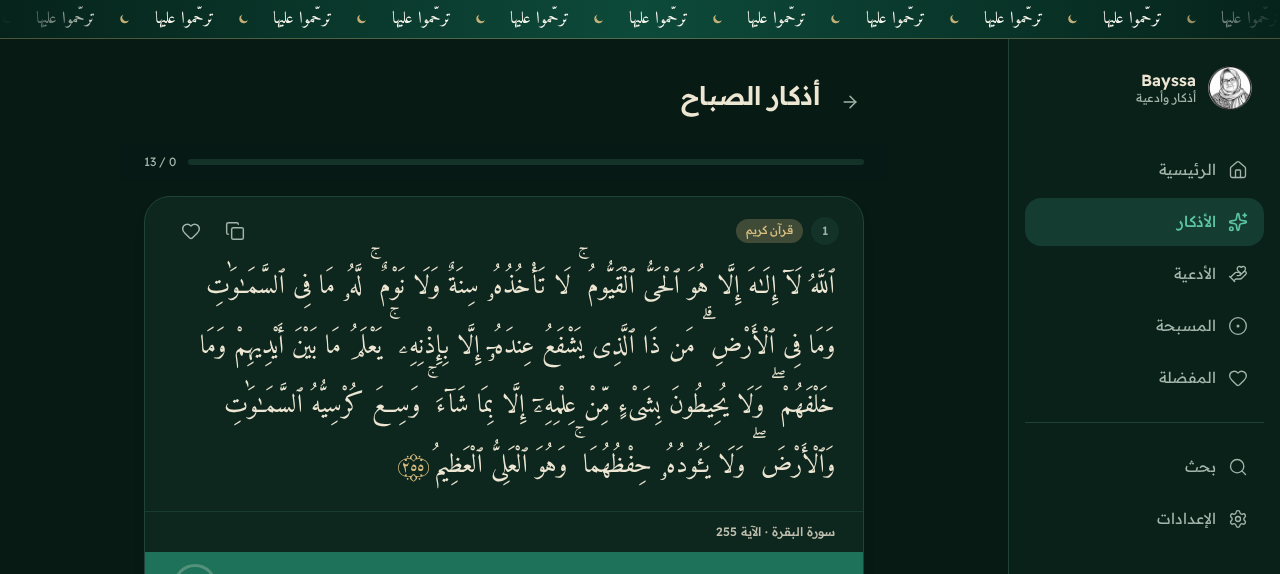
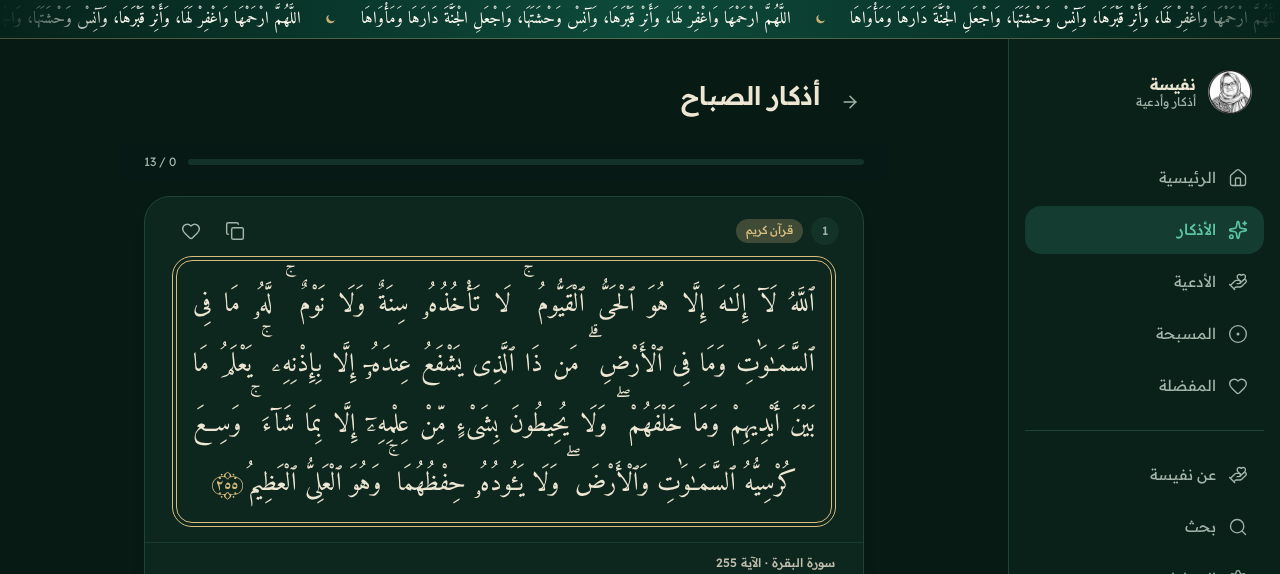
feat: rename the app to Nafissa and show its name in Arabic
- The name shown in the app, the page title, the installed-app name
  and the link previews is the Arabic name the owner gave. English
  documents use "Nafissa".
- The app name on the home screen's header links to the home screen,
  as it does in the sidebar.
- The backup format is now nafissa-backup. The app has no released
  users, so no existing file is affected.
- The link preview image, the social image and the screenshots are
  regenerated.

The address path /bayssa/ and the repository name are unchanged here.

diff --git a/tests/e2e/backup.spec.ts b/tests/e2e/backup.spec.ts
@@ -18,8 +18,8 @@ const PREFS = { theme: 'light', numerals: 'arab', textScaleIndex: 1, hijriOffset
 const EMPTY: FileData = { favorites: [], tasbih: { activeId: '', counters: {}, lifetimeTotal: 0 }, progress: { day: '', counts: {} }, prefs: PREFS }
 
 function backupFile(data: Partial<FileData>, overrides: Record<string, unknown> = {}): { name: string; mimeType: string; buffer: Buffer } {
-  const file = { format: 'bayssa-backup', version: 1, exportedAt: '2026-11-22T10:00:00.000Z', appVersion: '0.1.0', data: { ...EMPTY, ...data }, ...overrides }
-  return { name: 'bayssa-backup.json', mimeType: 'application/json', buffer: Buffer.from(JSON.stringify(file)) }
+  const file = { format: 'nafissa-backup', version: 1, exportedAt: '2026-11-22T10:00:00.000Z', appVersion: '0.1.0', data: { ...EMPTY, ...data }, ...overrides }
+  return { name: 'nafissa-backup.json', mimeType: 'application/json', buffer: Buffer.from(JSON.stringify(file)) }
 }
 
 async function chooseFile(page: Page, file: { name: string; mimeType: string; buffer: Buffer }): Promise<void> {
@@ -52,9 +52,9 @@ test.describe('export', () => {
     const downloading = page.waitForEvent('download')
     await page.getByRole('button', { name: 'تصدير ملف' }).click()
     const download = await downloading
-    expect(download.suggestedFilename()).toMatch(/^bayssa-backup-\d{4}-\d{2}-\d{2}\.json$/)
+    expect(download.suggestedFilename()).toMatch(/^nafissa-backup-\d{4}-\d{2}-\d{2}\.json$/)
     const file = JSON.parse(await readFile(await download.path(), 'utf8')) as { format: string; version: number; exportedAt: string; data: FileData }
-    expect(file.format).toBe('bayssa-backup')
+    expect(file.format).toBe('nafissa-backup')
     expect(file.version).toBe(1)
     expect(Number.isNaN(Date.parse(file.exportedAt))).toBe(false)
     expect(file.data.favorites).toHaveLength(1)
@@ -98,7 +98,7 @@ test.describe('moving data between two separate storage areas', () => {
     const page = await second.newPage()
     await page.goto('./#/settings')
     expect((await savedState(page)).favorites).toBe(0)
-    await chooseFile(page, { name: 'bayssa-backup.json', mimeType: 'application/json', buffer: exported })
+    await chooseFile(page, { name: 'nafissa-backup.json', mimeType: 'application/json', buffer: exported })
 
     const dialog = page.getByRole('dialog')
     await expect(dialog.getByRole('heading', { name: 'معاينة قبل الاستيراد' })).toBeVisible()
@@ -130,7 +130,7 @@ test.describe('moving data between two separate storage areas', () => {
     await page.getByRole('button', { name: 'نسخ البيانات' }).click()
     await expect(page.getByRole('status').filter({ hasText: 'نُسخت البيانات' })).toBeVisible()
     const copied = await page.evaluate(() => window.__copied[0] ?? '')
-    expect(JSON.parse(copied)).toMatchObject({ format: 'bayssa-backup', version: 1 })
+    expect(JSON.parse(copied)).toMatchObject({ format: 'nafissa-backup', version: 1 })
 
     await page.evaluate(() => localStorage.clear())
     await page.reload()
@@ -144,14 +144,14 @@ test.describe('moving data between two separate storage areas', () => {
 
   test('says which environment is in use and how to move data', async ({ page }) => {
     await page.goto('./#/settings')
-    await expect(page.getByText('أنت تستعمل Bayssa الآن في المتصفح')).toBeVisible()
+    await expect(page.getByText('أنت تستعمل نفيسة الآن في المتصفح')).toBeVisible()
     await page.emulateMedia({ media: 'screen' })
     await page.addInitScript(() => {
       const original = window.matchMedia.bind(window)
       window.matchMedia = (query: string) => (query.includes('display-mode: standalone') ? { ...original(query), matches: true } as MediaQueryList : original(query))
     })
     await page.reload()
-    await expect(page.getByText('أنت تستعمل Bayssa الآن تطبيقاً مثبّتاً')).toBeVisible()
+    await expect(page.getByText('أنت تستعمل نفيسة الآن تطبيقاً مثبّتاً')).toBeVisible()
   })
 })
 
@@ -159,7 +159,7 @@ test.describe('files that must be refused', () => {
   const CASES: { name: string; file: () => { name: string; mimeType: string; buffer: Buffer }; message: string }[] = [
     { name: 'text that is not JSON', file: () => ({ name: 'notes.json', mimeType: 'application/json', buffer: Buffer.from('this is not a backup') }), message: 'تعذّرت قراءة الملف' },
     { name: 'an empty file', file: () => ({ name: 'empty.json', mimeType: 'application/json', buffer: Buffer.from('') }), message: 'تعذّرت قراءة الملف' },
-    { name: 'JSON from another program', file: () => ({ name: 'other.json', mimeType: 'application/json', buffer: Buffer.from(JSON.stringify({ favorites: ['a'] })) }), message: 'ليس نسخة من بيانات Bayssa' },
+    { name: 'JSON from another program', file: () => ({ name: 'other.json', mimeType: 'application/json', buffer: Buffer.from(JSON.stringify({ favorites: ['a'] })) }), message: 'ليس نسخة من بيانات نفيسة' },
     { name: 'a newer format version', file: () => backupFile({}, { version: 2 }), message: 'بإصدار لا يدعمه هذا التطبيق' },
     { name: 'a negative counter', file: () => backupFile({ tasbih: { activeId: 'a', counters: { a: { count: -5, target: 33, completedRounds: 0 } }, lifetimeTotal: 0 } }), message: 'بيانات غير سليمة' },
     { name: 'a favorite without an id', file: () => backupFile({ favorites: [{ id: '', addedAt: 1 }] }), message: 'بيانات غير سليمة' },
@@ -261,5 +261,5 @@ test('export and import work with no network', async ({ page, context }) => {
   await expect(page.getByRole('status').filter({ hasText: 'تم الاستيراد' })).toBeVisible()
   const downloading = page.waitForEvent('download')
   await page.getByRole('button', { name: 'تصدير ملف' }).click()
-  expect((await downloading).suggestedFilename()).toMatch(/^bayssa-backup-/)
+  expect((await downloading).suggestedFilename()).toMatch(/^nafissa-backup-/)
 })

diff --git a/src/i18n/ar.ts b/src/i18n/ar.ts
@@ -1,7 +1,7 @@
 // All interface copy lives here so another language can be added later by
 // supplying an object of the same shape. Supplication text is content, not copy.
 export const ar = {
-  appName: 'Bayssa',
+  appName: 'نفيسة',
   tagline: 'أذكار وأدعية',
   tribute: { label: 'إهداء', pause: 'إيقاف حركة شريط الإهداء', resume: 'تشغيل حركة شريط الإهداء' },
   nav: { home: 'الرئيسية', adhkar: 'الأذكار', duas: 'الأدعية', tasbih: 'المسبحة', favorites: 'المفضلة', main: 'التنقل الرئيسي' },
@@ -31,7 +31,7 @@ export const ar = {
     source: 'المصدر', progress: 'التقدم', partialAyah: 'جزء من الآية',
     approximate: 'مطابقة تقريبية', approximateHint: 'معظم ألفاظ هذا الدعاء موجودة في الحديث المذكور بترتيبها، مع اختلاف يسير في بعض الكلمات. انظر منهج التوثيق في الإعدادات.',
     ofAyah: 'الآية', ofAyahs: 'الآيات', surah: 'سورة', hisn: 'حصن المسلم',
-    sharedFrom: 'من تطبيق Bayssa',
+    sharedFrom: 'من تطبيق نفيسة',
   },
   collections: { bukhari: 'صحيح البخاري', muslim: 'صحيح مسلم', abudawud: 'سنن أبي داود', tirmidhi: 'جامع الترمذي', nasai: 'سنن النسائي', ibnmajah: 'سنن ابن ماجه' },
   kinds: { quran: 'قرآن كريم', hadith: 'حديث نبوي' },
@@ -82,8 +82,8 @@ export const ar = {
   backup: {
     title: 'نسخ البيانات ونقلها',
     intro: 'مفضلتك وعدّادات التسبيح وإعداداتك محفوظة على هذا الجهاز فقط. يمكنك حفظ نسخة منها في ملف، أو نقلها إلى جهاز آخر.',
-    inBrowser: 'أنت تستعمل Bayssa الآن في المتصفح. بيانات التطبيق المثبّت على الشاشة الرئيسية منفصلة عن بيانات المتصفح، فإن ثبّتّه بدأ بلا مفضلتك وعدّاداتك. لنقلها: صدّرها من هنا، ثم افتح التطبيق المثبّت واستوردها من هذه الصفحة.',
-    installed: 'أنت تستعمل Bayssa الآن تطبيقاً مثبّتاً. بياناته منفصلة عن بيانات المتصفح. لنقل ما حفظته في المتصفح: صدّره من هناك، ثم استورده هنا.',
+    inBrowser: 'أنت تستعمل نفيسة الآن في المتصفح. بيانات التطبيق المثبّت على الشاشة الرئيسية منفصلة عن بيانات المتصفح، فإن ثبّتّه بدأ بلا مفضلتك وعدّاداتك. لنقلها: صدّرها من هنا، ثم افتح التطبيق المثبّت واستوردها من هذه الصفحة.',
+    installed: 'أنت تستعمل نفيسة الآن تطبيقاً مثبّتاً. بياناته منفصلة عن بيانات المتصفح. لنقل ما حفظته في المتصفح: صدّره من هناك، ثم استورده هنا.',
     exportFile: 'تصدير ملف', copyData: 'نسخ البيانات', copied: 'نُسخت البيانات. الصقها في خانة «لصق البيانات» في الجهة الأخرى.',
     copyFailed: 'تعذّر النسخ. استعمل «تصدير ملف».', exported: 'حُفظ الملف في تنزيلات جهازك.',
     importFile: 'استيراد من ملف', pasteData: 'لصق البيانات', pasteLabel: 'الصق هنا البيانات المنسوخة', pastePlaceholder: 'الصق البيانات هنا',
@@ -98,9 +98,9 @@ export const ar = {
     changesNothing: 'كل ما في هذه النسخة موجود عندك. لا شيء يُضاف.',
     done: 'تم الاستيراد', doneFavorites: 'مفضلة أُضيفت', doneCounters: 'عدّادات أُضيفت أو ارتفعت', donePrefs: 'واستُوردت الإعدادات.',
     errors: {
-      'too-large': 'الملف أكبر من أن يكون نسخة من بيانات Bayssa. لم يتغير شيء.',
-      'not-json': 'تعذّرت قراءة الملف. قد يكون تالفاً أو ليس نسخة من بيانات Bayssa. لم يتغير شيء.',
-      'not-a-backup': 'هذا الملف ليس نسخة من بيانات Bayssa. لم يتغير شيء.',
+      'too-large': 'الملف أكبر من أن يكون نسخة من بيانات نفيسة. لم يتغير شيء.',
+      'not-json': 'تعذّرت قراءة الملف. قد يكون تالفاً أو ليس نسخة من بيانات نفيسة. لم يتغير شيء.',
+      'not-a-backup': 'هذا الملف ليس نسخة من بيانات نفيسة. لم يتغير شيء.',
       'unsupported-version': 'هذه النسخة أُنشئت بإصدار لا يدعمه هذا التطبيق. حدّث التطبيق ثم أعد المحاولة. لم يتغير شيء.',
       malformed: 'في الملف بيانات غير سليمة، فلم يُستورد منه شيء. لم يتغير شيء.',
       unreadable: 'تعذّر فتح الملف. لم يتغير شيء.',

diff --git a/index.html b/index.html
@@ -3,19 +3,19 @@
   <head>
     <meta charset="UTF-8" />
     <meta name="viewport" content="width=device-width, initial-scale=1, viewport-fit=cover" />
-    <title>Bayssa · أذكار وأدعية</title>
+    <title>نفيسة · أذكار وأدعية</title>
     <meta name="theme-color" content="#0B3D2E" />
     <meta name="color-scheme" content="light dark" />
     <meta name="mobile-web-app-capable" content="yes" />
     <meta name="apple-mobile-web-app-capable" content="yes" />
     <meta name="apple-mobile-web-app-status-bar-style" content="black-translucent" />
-    <meta name="apple-mobile-web-app-title" content="Bayssa" />
+    <meta name="apple-mobile-web-app-title" content="نفيسة" />
     <link rel="icon" href="favicon.ico" sizes="48x48" />
     <link rel="icon" href="pwa-192x192.png" type="image/png" sizes="192x192" />
     <link rel="apple-touch-icon" href="apple-touch-icon-180x180.png" />
     <meta property="og:type" content="website" />
     <meta property="og:locale" content="ar_AR" />
-    <meta property="og:title" content="Bayssa · أذكار وأدعية" />
+    <meta property="og:title" content="نفيسة · أذكار وأدعية" />
     <meta name="twitter:card" content="summary_large_image" />
     <script>
       // The prerendered shell is the home screen. On any other route keep it out of

diff --git a/tests/public/smoke.spec.ts b/tests/public/smoke.spec.ts
@@ -86,7 +86,7 @@ test('is installable: manifest, icons and, in Chrome, no installability errors',
   await page.goto('./')
   const href = await page.locator('link[rel="manifest"]').getAttribute('href')
   const manifest = await (await request.get(href ?? '')).json()
-  expect(manifest).toMatchObject({ name: 'Bayssa · أذكار وأدعية', short_name: 'Bayssa', lang: 'ar', dir: 'rtl', display: 'standalone', start_url: '/bayssa/', scope: '/bayssa/' })
+  expect(manifest).toMatchObject({ name: 'نفيسة · أذكار وأدعية', short_name: 'نفيسة', lang: 'ar', dir: 'rtl', display: 'standalone', start_url: '/bayssa/', scope: '/bayssa/' })
   // The manifest and the page describe only what this build contains.
   expect(manifest.description).not.toContain('أذكار')
   expect((manifest.shortcuts as { url: string }[]).map((shortcut) => shortcut.url)).toEqual(['/bayssa/#/duas', '/bayssa/#/tasbih'])

diff --git a/vite.config.ts b/vite.config.ts
@@ -132,7 +132,7 @@ const BUNDLED_PACKAGES = [
   'lucide-react', 'workbox-window', '@fontsource/amiri', '@fontsource-variable/readex-pro',
 ] as const
 
-const LICENSES_HEADER = `Bayssa: third-party software and font licences
+const LICENSES_HEADER = `Nafissa: third-party software and font licences
 ====================================================
 
 This file lists the open-source software and fonts included in this
@@ -248,8 +248,8 @@ export default defineConfig(({ mode }) => ({
       includeAssets: ['favicon.ico', 'apple-touch-icon-180x180.png'],
       manifest: {
         id: BASE_PATH,
-        name: 'Bayssa · أذكار وأدعية',
-        short_name: 'Bayssa',
+        name: 'نفيسة · أذكار وأدعية',
+        short_name: 'نفيسة',
         description: SITE_TEXT.manifestDescription,
         lang: 'ar',
         dir: 'rtl',

diff --git a/src/storage/backup.ts b/src/storage/backup.ts
@@ -11,7 +11,7 @@ import { MAX_TARGET, MIN_TARGET, type Counter, type TasbihState } from '../domai
 import { MAX_HIJRI_OFFSET_DAYS } from '../domain/hijri/hijri.ts'
 import { NUMERALS, TEXT_SCALES, THEMES, type Prefs } from './stores.ts'
 
-export const BACKUP_FORMAT = 'bayssa-backup'
+export const BACKUP_FORMAT = 'nafissa-backup'
 export const BACKUP_VERSION = 1
 export const MAX_BACKUP_BYTES = 1_000_000
 const MAX_FAVORITES = 5000
@@ -49,7 +49,7 @@ export function serializeBackup(backup: Backup): string {
 
 export function backupFileName(now: Date): string {
   const day = `${now.getFullYear()}-${String(now.getMonth() + 1).padStart(2, '0')}-${String(now.getDate()).padStart(2, '0')}`
-  return `bayssa-backup-${day}.json`
+  return `nafissa-backup-${day}.json`
 }
 
 // ---------------------------------------------------------------- Validation

diff --git a/src/storage/backup.test.ts b/src/storage/backup.test.ts
@@ -34,7 +34,7 @@ describe('backup file', () => {
   })
 
   it('names the file after the app and the day', () => {
-    expect(backupFileName(new Date(2026, 10, 22, 9))).toBe('bayssa-backup-2026-11-22.json')
+    expect(backupFileName(new Date(2026, 10, 22, 9))).toBe('nafissa-backup-2026-11-22.json')
   })
 })
 
@@ -55,7 +55,7 @@ describe('rejecting files', () => {
     expect(error('<html></html>')).toBe('not-json')
   })
 
-  it('rejects JSON that is not a Bayssa backup', () => {
+  it('rejects JSON that is not a Nafissa backup', () => {
     expect(error('[]')).toBe('not-a-backup')
     expect(error('null')).toBe('not-a-backup')
     expect(error('"text"')).toBe('not-a-backup')

diff --git a/src/features/home/HomePage.tsx b/src/features/home/HomePage.tsx
@@ -134,10 +134,10 @@ export function HomePage(): ReactElement {
   return (
     <div className="space-y-6">
       <header className="flex items-center justify-between pt-1 lg:hidden">
-        <div>
-          <p className="text-lg font-semibold leading-tight text-ink">{t.appName}</p>
-          <p className="text-xs text-muted">{t.tagline}</p>
-        </div>
+        <Link to="/" className="rounded-xl">
+          <span className="block text-lg font-semibold leading-tight text-ink">{t.appName}</span>
+          <span className="block text-xs text-muted">{t.tagline}</span>
+        </Link>
         <div className="-me-2 flex"><HeaderLinks /></div>
       </header>
 

diff --git a/src/content/schema.ts b/src/content/schema.ts
@@ -52,7 +52,7 @@ export type ScholarlyReview =
   | { status: 'reviewed'; by: string; on: string }
 
 /**
- * Where each part of an entry comes from. Bayssa shows supplications and their
+ * Where each part of an entry comes from. Nafissa shows supplications and their
  * references only: it carries no explanation or commentary of the Quran.
  * Rights are looked up in the source registry.
  */

diff --git a/docs/product/hadith-source-comparison.md b/docs/product/hadith-source-comparison.md
@@ -4,7 +4,7 @@ Prepared on 2026-11-22 for your approval. Nothing has been migrated. No Arabic w
 
 ## Why this matters
 
-Every supplication and dhikr in Bayssa currently takes its wording from حصن المسلم, whose redistribution for this use is not established. A public duas and adhkar app needs wording from a source that may be redistributed. This document compares the candidates. It does not propose a migration.
+Every supplication and dhikr in Nafissa currently takes its wording from حصن المسلم, whose redistribution for this use is not established. A public duas and adhkar app needs wording from a source that may be redistributed. This document compares the candidates. It does not propose a migration.
 
 A caution that runs through the whole document: the words of a hadith are not anyone's property, but a particular edition is more than the words. Its vocalization, punctuation, numbering, section headings, gradings, explanations and the database as a compiled work can each carry rights of their own. A repository's licence file covers what its author had the right to license, and no more.
 
@@ -40,7 +40,7 @@ References. The takhrij names collections but usually gives no hadith number in 
 Open questions about its terms, which only HadeethEnc can answer:
 
 - The terms speak of "translations". Whether they cover the Arabic text and the gradings is implied by their place on the Arabic download, not stated.
-- Condition 1 forbids modification, addition and deletion. Bayssa would show only the supplication inside a hadith, without the narrator's introduction and without the explanation. Whether cutting out the supplication counts as deletion is the same question as for QuranEnc, and it matters more here because the cut is inside a record, not between records.
+- Condition 1 forbids modification, addition and deletion. Nafissa would show only the supplication inside a hadith, without the narrator's introduction and without the explanation. Whether cutting out the supplication counts as deletion is the same question as for QuranEnc, and it matters more here because the cut is inside a record, not between records.
 - The terms do not mention commercial use.
 
 ## 2. `fawazahmed0/hadith-api`
@@ -57,7 +57,7 @@ Attribution. None required by the Unlicense.
 
 What a record contains. The full narration with its chain of narrators, vocalized. Two numbers per hadith. Gradings attributed to named scholars for the four Sunan (al-Albani, Shu'ayb al-Arna'ut, Zubair Ali Za'i and others), none for al-Bukhari and Muslim. No explanations.
 
-Its role in Bayssa today. It is the source of every collection name, hadith number and grading the app shows. The registry had marked it "cleared" on the strength of the Unlicense. In light of this finding I have changed that status to "not established". Nothing in the public build depends on it, since the public build contains no hadith.
+Its role in Nafissa today. It is the source of every collection name, hadith number and grading the app shows. The registry had marked it "cleared" on the strength of the Unlicense. In light of this finding I have changed that status to "not established". Nothing in the public build depends on it, since the public build contains no hadith.
 
 ## 3. `AhmedBaset/hadith-json`
 
@@ -70,7 +70,7 @@ Origin: stated in its README as scraped from sunnah.com, 50,884 hadiths from 17 
 
 ## 5. Differences in Arabic wording and vocalization
 
-Measured against the wording Bayssa shows today. "Letters" means the consonants and long vowels. "Marks" means the vocalization.
+Measured against the wording Nafissa shows today. "Letters" means the consonants and long vowels. "Marks" means the vocalization.
 
 ### Coverage
 

diff --git a/docs/open-source/stage-a-readiness.md b/docs/open-source/stage-a-readiness.md
@@ -2,7 +2,7 @@
 
 Prepared on 2026-11-22. Stage A is the public build that carries only content with documented redistribution rights: supplications from the Quran, and the tasbih as a plain counter.
 
-Read this together with the product decision you sent the same day: Bayssa is a duas and adhkar app, not a Quran reader. Section 8 says what that means for Stage A.
+Read this together with the product decision you sent the same day: Nafissa is a duas and adhkar app, not a Quran reader. Section 8 says what that means for Stage A.
 
 ## Update, later the same day
 
@@ -18,13 +18,13 @@ After this report was written you set the product focus and approved several cha
 
 The numbers in sections 3 to 5 below are from the first rehearsal. `stage-a-inventory.md` and `stage-a-contents.md` were regenerated and are current.
 
-You have also said that Bayssa is a duas and adhkar app and must not look like a Quran reader. Stage A contains only the Quranic category, so whether to publish it in this form remains your decision.
+You have also said that Nafissa is a duas and adhkar app and must not look like a Quran reader. Stage A contains only the Quranic category, so whether to publish it in this form remains your decision.
 
 ## Verdict
 
 Technically, Stage A is ready: a rehearsal export was built, tested and scanned from nothing but its own files, and passed every check.
 
-It is not ready to publish. Four things block it, in section 8: no code licence is in force because the copyright holder is not settled, several documents in the export still describe the full application, the content has had no review by anyone qualified, and a public app containing only Quran passages may not be what you want Bayssa to look like.
+It is not ready to publish. Four things block it, in section 8: no code licence is in force because the copyright holder is not settled, several documents in the export still describe the full application, the content has had no review by anyone qualified, and a public app containing only Quran passages may not be what you want Nafissa to look like.
 
 Nothing was published. No repository was created, nothing was pushed, and the rehearsal export is a plain directory in the session scratch folder with no git history.
 
@@ -185,7 +185,7 @@ Technical:
 
 Product direction, new today:
 
-1. You have said Bayssa must not be a Quran reader, and that supplications from the Quran are one category among duas and adhkar. Stage A contains only that one category. It shows them as individual supplications with references, which matches what you described, but a visitor would see an app made entirely of Quran passages. Whether Stage A should be published at all in that form is now your call.
+1. You have said Nafissa must not be a Quran reader, and that supplications from the Quran are one category among duas and adhkar. Stage A contains only that one category. It shows them as individual supplications with references, which matches what you described, but a visitor would see an app made entirely of Quran passages. Whether Stage A should be published at all in that form is now your call.
 2. The export includes the complete Quran text as reference files. The app does not show it, but if "no full Quran text" should hold for the repository too, the reference can be reduced to the 62 ayahs in use.
 3. The tribute banner is not in this build.
 

diff --git a/docs/product/bayssa-identity-and-focus-plan.md b/docs/product/bayssa-identity-and-focus-plan.md
@@ -1,4 +1,4 @@
-# Bayssa: identity, product focus and tracking
+# Nafissa: identity, product focus and tracking
 
 Implementation plan, prepared on 2026-11-22.
 
@@ -6,7 +6,7 @@ Status, same day: sections 1 and 2 were approved and are implemented in the priv
 
 ## 1. The tribute
 
-Bayssa is the name of your late grandmother, and the app is dedicated to her. The plan treats the tribute as part of the app's frame, present before any content, and never styled like a notice or an advertisement.
+Nafissa is the name of your late grandmother, and the app is dedicated to her. The plan treats the tribute as part of the app's frame, present before any content, and never styled like a notice or an advertisement.
 
 ### What will be built
 
@@ -49,13 +49,13 @@ It is included in the prerendered home screen, so it is there from the first pai
 
 1. Crescent only, or crescent and heart?
 2. The secondary line: dedication card and occasional appearance in the band, as recommended?
-3. Should the app say whose name Bayssa is? For example a line on the dedication card: "Bayssa اسم جدتي رحمها الله". It is personal, so nothing of the kind will be written in the app, the README or the repository description unless you ask for it.
+3. Should the app say whose name Nafissa is? For example a line on the dedication card: "Nafissa اسم جدتي رحمها الله". It is personal, so nothing of the kind will be written in the app, the README or the repository description unless you ask for it.
 
 ## 2. Product focus: duas and adhkar, not a Quran reader
 
 ### Review of the current application
 
-There is no Quran reader in Bayssa today. There is no page that shows a surah, no surah list, no reading position, no memorisation feature. What exists that involves the Quran:
+There is no Quran reader in Nafissa today. There is no page that shows a surah, no surah list, no reading position, no memorisation feature. What exists that involves the Quran:
 
 | What | Where | Fits the focus? |
 |---|---|---|
@@ -98,7 +98,7 @@ No supplication, ayah or reference changes in any of these.
 
 Stage A exists because of rights, not design: the Tanzil Quran text is the only religious text in the project with documented redistribution rights. Everything in your primary list (adhkar, daily and prophetic duas) currently comes from Hisn al-Muslim, whose permission has not been requested yet. The public build follows `content-sources/sources.ts`: it includes a source when that file marks it cleared.
 
-So a public Bayssa that matches your focus needs cleared adhkar and duas. A public app with only the Quranic category would be the opposite of the product you describe.
+So a public Nafissa that matches your focus needs cleared adhkar and duas. A public app with only the Quranic category would be the opposite of the product you describe.
 
 ### Recommendation
 
